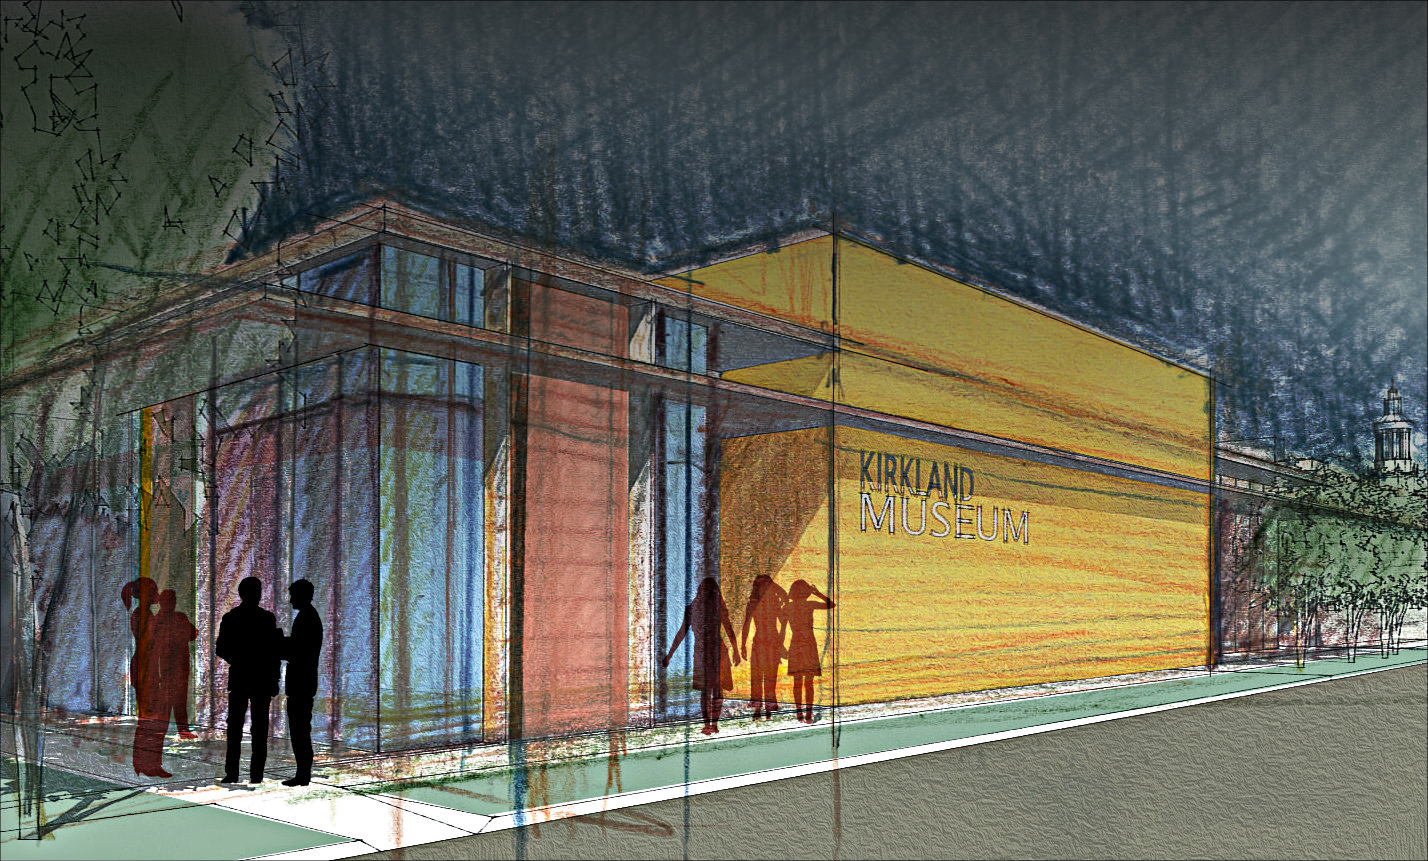
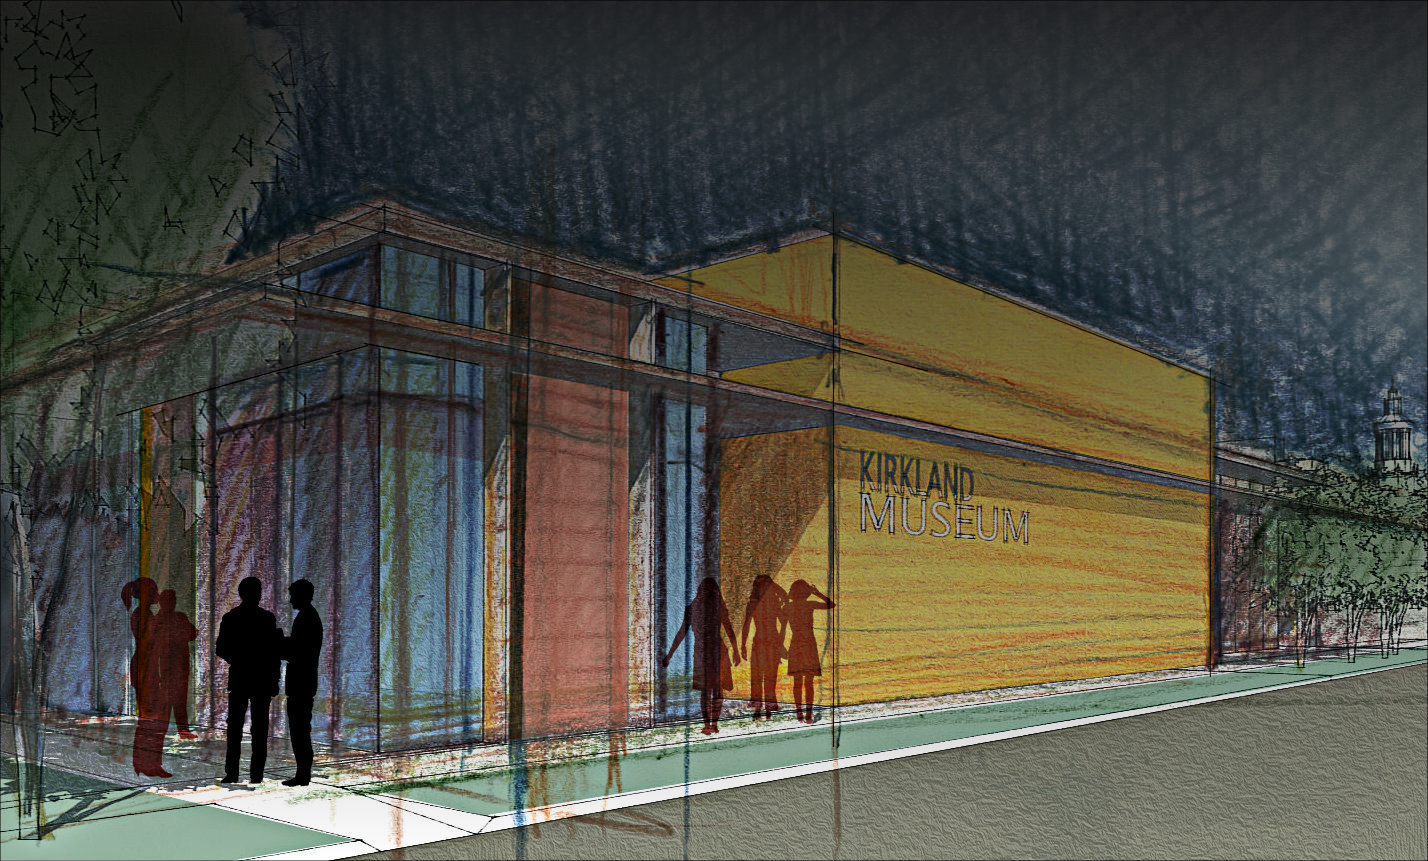
Search bar in nav

diff --git a/css/creative.min.css b/css/creative.min.css
@@ -76,8 +76,8 @@ p {
 }
 
 .text-faded-hero {
-    color: rgba(255, 255, 255, .8);
-      margin-bottom: 0px;
+    color: rgba(255, 255, 255, .95);
+    margin-bottom: 0px;
 }
 
 section {
@@ -140,7 +140,7 @@ aside {
         border-color: rgba(255, 255, 255, .3)
     }
     .navbar-default .navbar-header .navbar-brand {
-        color: rgba(255, 255, 255, .7)
+        color: rgba(255, 255, 255, .9)
     }
     .navbar-default .navbar-header .navbar-brand:focus,
     .navbar-default .navbar-header .navbar-brand:hover {
@@ -148,7 +148,7 @@ aside {
     }
     .navbar-default .nav>li>a,
     .navbar-default .nav>li>a:focus {
-        color: rgba(255, 255, 255, .7)
+        color: rgba(255, 255, 255, .9)
     }
     .navbar-default .nav>li>a:focus:hover,
     .navbar-default .nav>li>a:hover {
@@ -188,11 +188,12 @@ header {
     background-size: cover;
     -o-background-size: cover;
     background-position: center;
-    background-image: url(../img/new_kirkland_dark.png);
+    background-image: url(../img/new_kirkland_g.png);
     color: #fff
 }
 header .header-content {
     padding: 100px 15px
+
 }
 header .header-content .header-content-inner h1 {
     font-weight: 700;
@@ -504,16 +505,17 @@ img::-moz-selection {
   margin-left: 90%;
 }
 
-@media (max-width: 767px) {
-  .icon::before {
-      color: White;
-      display: inline;
-      margin-right: .5em;
-      font: normal normal normal 14px/1 FontAwesome;
-      font-size: 25px;
-      text-rendering: auto;
-      -webkit-font-smoothing: antialiased;
-      -moz-osx-font-smoothing: grayscale;
-      transform: translate(0, 0);
-  }
+.stylish-input-group{
+    width: 150px;
+    margin-top: 10px;
+    margin-right: 10px;
+}
+
+.stylish-input-group .input-group-addon{
+    background: white !important;
+}
+.stylish-input-group .form-control{
+	border-right:0;
+	box-shadow:0 0 0;
+	border-color:#ccc;
 }

diff --git a/index.html b/index.html
@@ -60,7 +60,12 @@
                       <a class="icon fa fa-facebook fa-2x" aria-hidden="true"></a>
                   </li>
                   <li>
-                      <a class="page-scroll" href="#">search</a>
+                    <div class="input-group stylish-input-group">
+                      <input type="text" class="form-control"  placeholder="Search" >
+                      <span class="input-group-addon">
+                            <span class="glyphicon glyphicon-search"></span>
+                      </span>
+                    </div>
                   </li>
                   <li>
                       <a class="icon fa fa-phone fa-2x" aria-hidden="true"></a>
